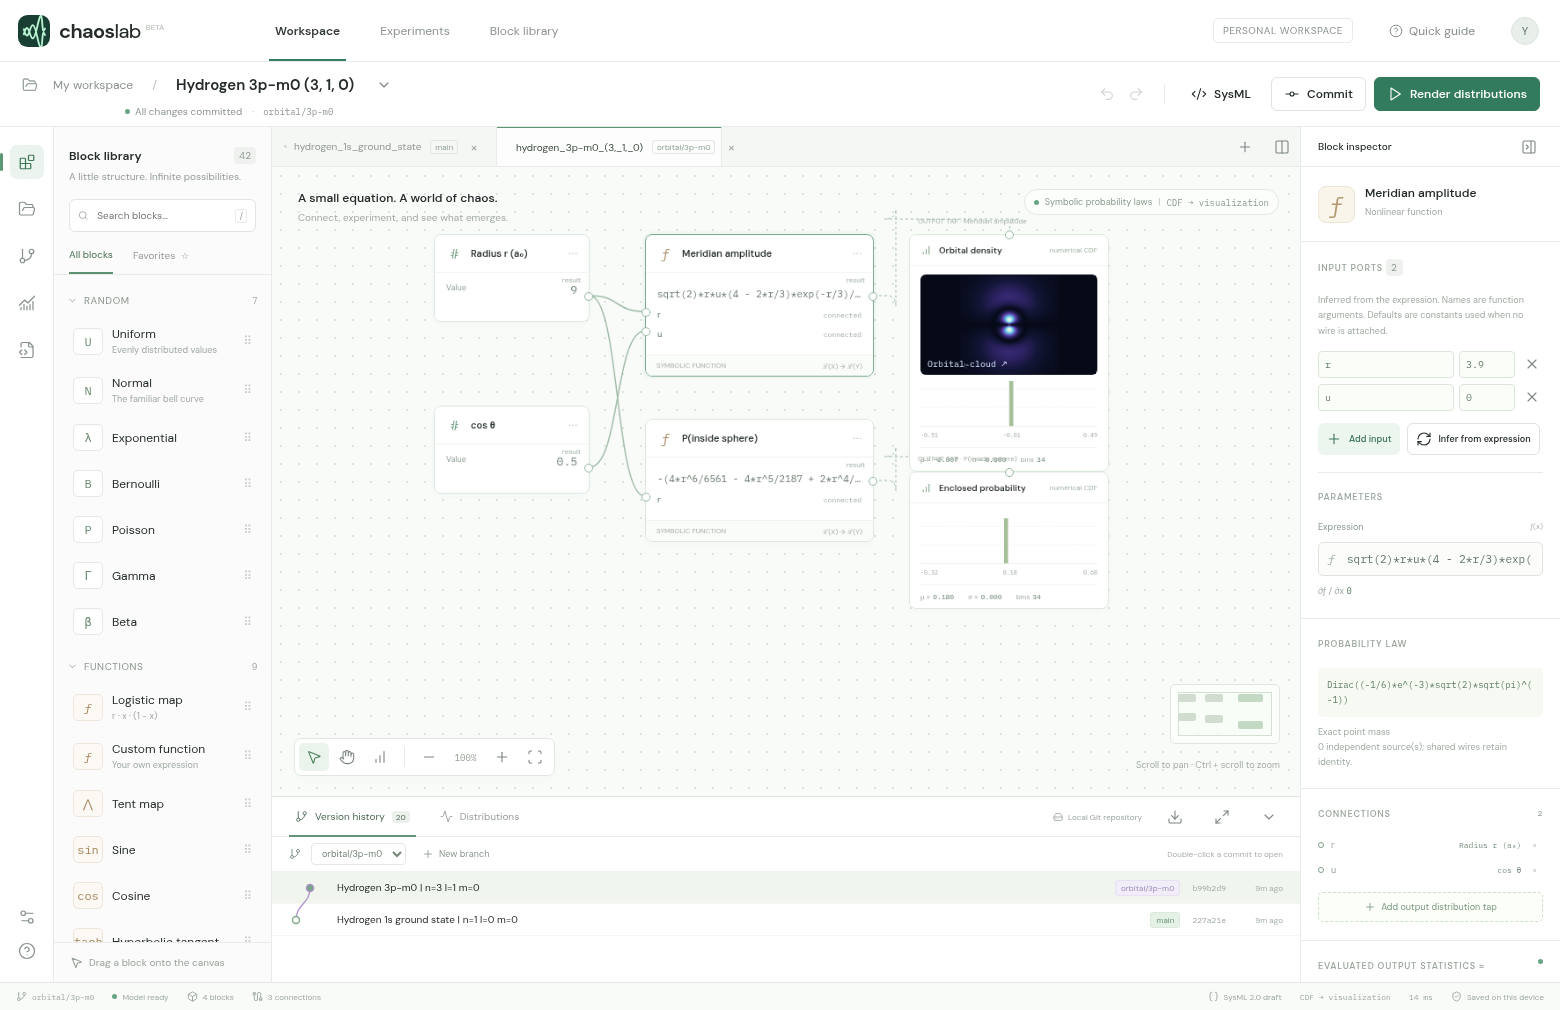
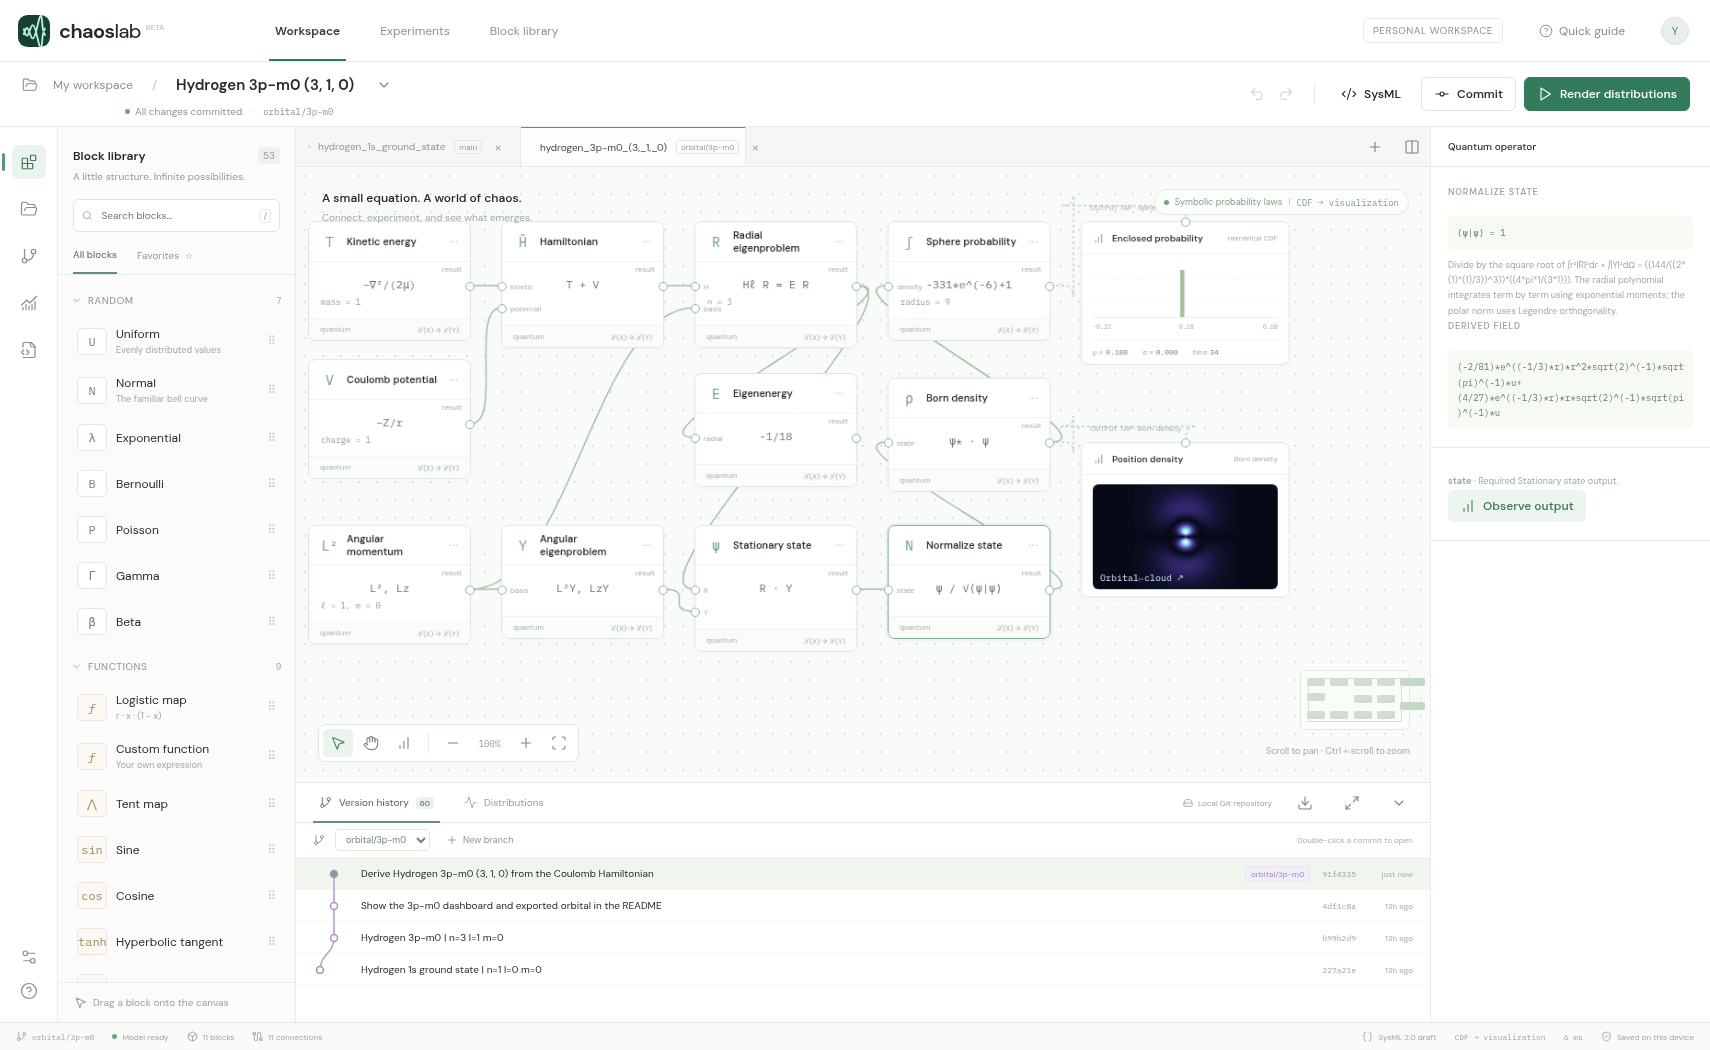
Show the derived state and operator graph for orbital/3p-m0

diff --git a/README.md b/README.md
@@ -4,6 +4,8 @@ Open **Version history** in Chaos Lab to explore the 20 hydrogen designs in this
 
 ## Hydrogen 3p (n = 3, ℓ = 1, m = 0)
 
+The connected Hamiltonian and eigenstate solvers give $E=-1/18$ Hartree for this state.
+
 ![Chaos Lab dashboard with the 3p model, m = 0, open in version history](dashboard.png)
 
 Radial nodes: 1. Polar nodes: 1. Plot half-width: 18 Bohr radii.
@@ -22,7 +24,7 @@ cd hydrogen_wavefunction
 python studio.py
 ```
 
-On Windows you can use `py studio.py`. On Linux you can use `python3 studio.py`. The first launch downloads the pinned Chaos Lab browser build. Double-click a commit to open it in a tab. Open another and use **Split view** to compare them. **Orbital cloud ↗** opens the spatial plots. The launcher reads the Git objects from your clone, including origin branches. Run `git fetch origin` and restart the launcher to load new remote branches.
+On Windows you can use `py studio.py`. On Linux you can use `python3 studio.py`. The first launch downloads the pinned Chaos Lab browser build. Double-click a commit to open it in a tab. Open another and use **Split view** to compare them. **Orbital cloud ↗** opens the spatial plots. The launcher reads the Git objects from your clone, including origin branches. For an existing clone, update the checked-out branch with `git pull --ff-only`, fetch the other branches with `git fetch origin`, and restart the launcher. Double-click the latest commit for the design you want to explore.
 
 To compare states with the same radial law, open `orbital/2p-m0` and `orbital/2p-m1`. At the same radius their enclosed-probability probes agree. The first slice is dark on the equatorial plane, while the second is dark along the polar axis.
 
@@ -32,7 +34,17 @@ To compare states with the same radial law, open `orbital/2p-m0` and `orbital/2p
 
 Branch names encode `(n, ℓ, m)`. For example, `orbital/3d-m1` is `(3,2,1)`. Each snapshot includes the editable graph, its compiled symbolic representation, and its SysML text. Each excited-state branch also contains a reference cross-section.
 
-Coordinates are in Bohr radii. These are normalized fixed-proton, nonrelativistic spatial eigenstates in the complex spherical-harmonic basis. For a fixed m the azimuthal phase is exp(i m φ), so probability density is axially symmetric. The graph evaluates the real meridian amplitude at φ = 0 using radius r and u = cos θ. Its square is probability per unit volume. The sphere probe integrates the radial Born law. The field tap sweeps the same amplitude expression for the x–z slice and its projected detections. Detections are drawn for display from a numerical grid of the final density including the r² volume factor. Brightness and plotting windows are scaled per orbital.
+## How the graph derives this orbital
+
+1. **Kinetic energy** and **Coulomb potential** supply the relative-coordinate operators in atomic units. Their wires feed **Hamiltonian**, which constructs $H=-\nabla^2/(2\mu)-Z/r$. The default is a fixed proton, $Z=\mu=1$.
+2. **Angular momentum** selects the joint eigenvalues of $L^2$ and $L_z$. **Radial eigenproblem** uses that angular eigenvalue in the centrifugal term. Regularity at the origin, decay at infinity, and radial-series termination give the polynomial and energy. **Angular eigenproblem** constructs the polar polynomial by Rodrigues differentiation and includes the phase $e^{im\phi}$.
+3. **Stationary state** multiplies the separated basis functions. **Normalize state** computes their norm with the spherical volume measure. **Born density** takes the squared modulus of the normalized state. **Sphere probability** integrates that density to the probe radius.
+4. Select a block to inspect its equation and derivation. Change **Nuclear charge** from 1 to 2. The energy becomes four times more negative and the orbital contracts by a factor of two. The plot rescales with the orbital, so use its Bohr-radius scale bar to see the change.
+
+The central slice evaluates the final density in the x–z plane. Projected detections sample the final density on a finite radial and angular grid with the spherical volume factor. Coordinates use Bohr radii and energy uses Hartree.
+
+The branch stores the operator graph in `model.json`, its derived fields and scalar laws in `model.symbolic.json`, and the block connections in `model.sysml`. With SymPy installed, run `python tools/verify_state.py` in a checkout of this branch to check the eigenvalue equations, normalization, radial reference solution and sphere integral.
+
 
 | n | ℓ | m | Design branch |
 |---|---|---|---|
